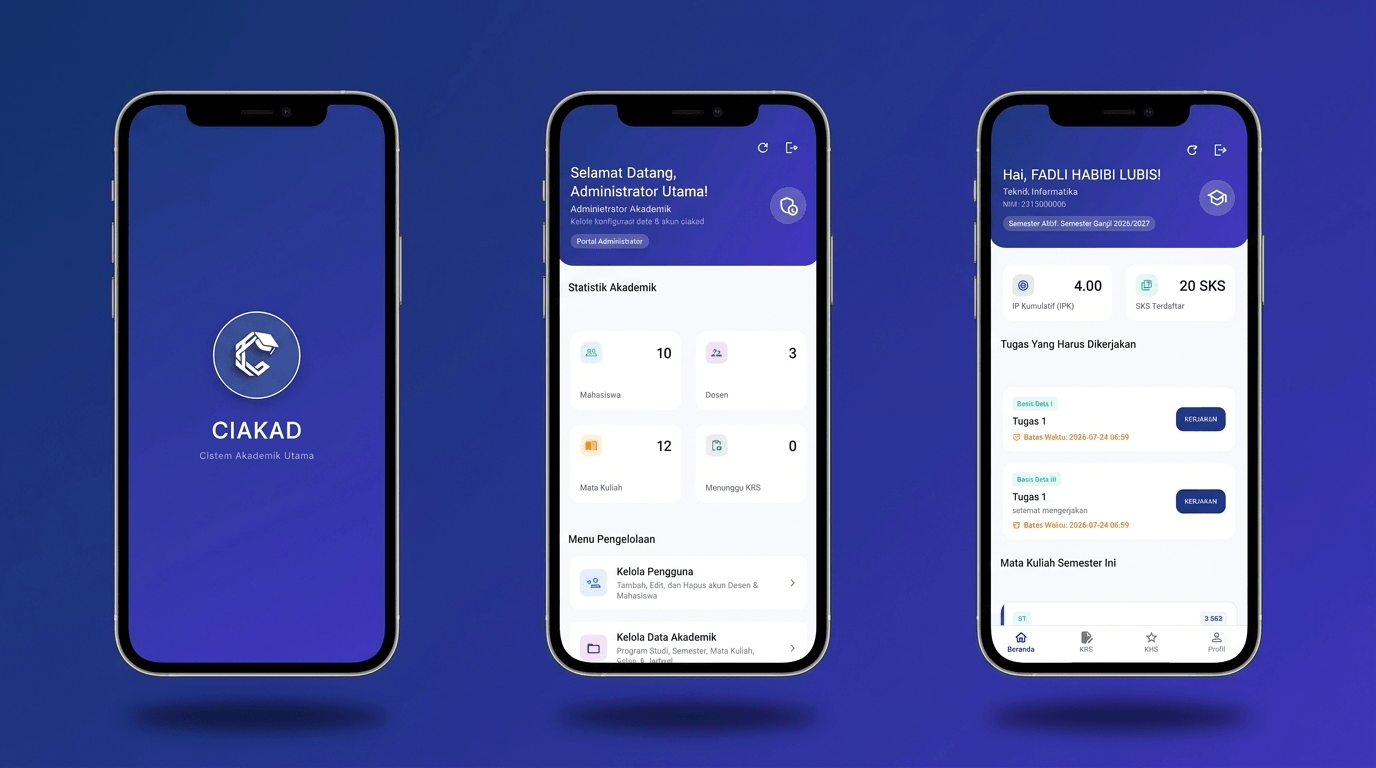
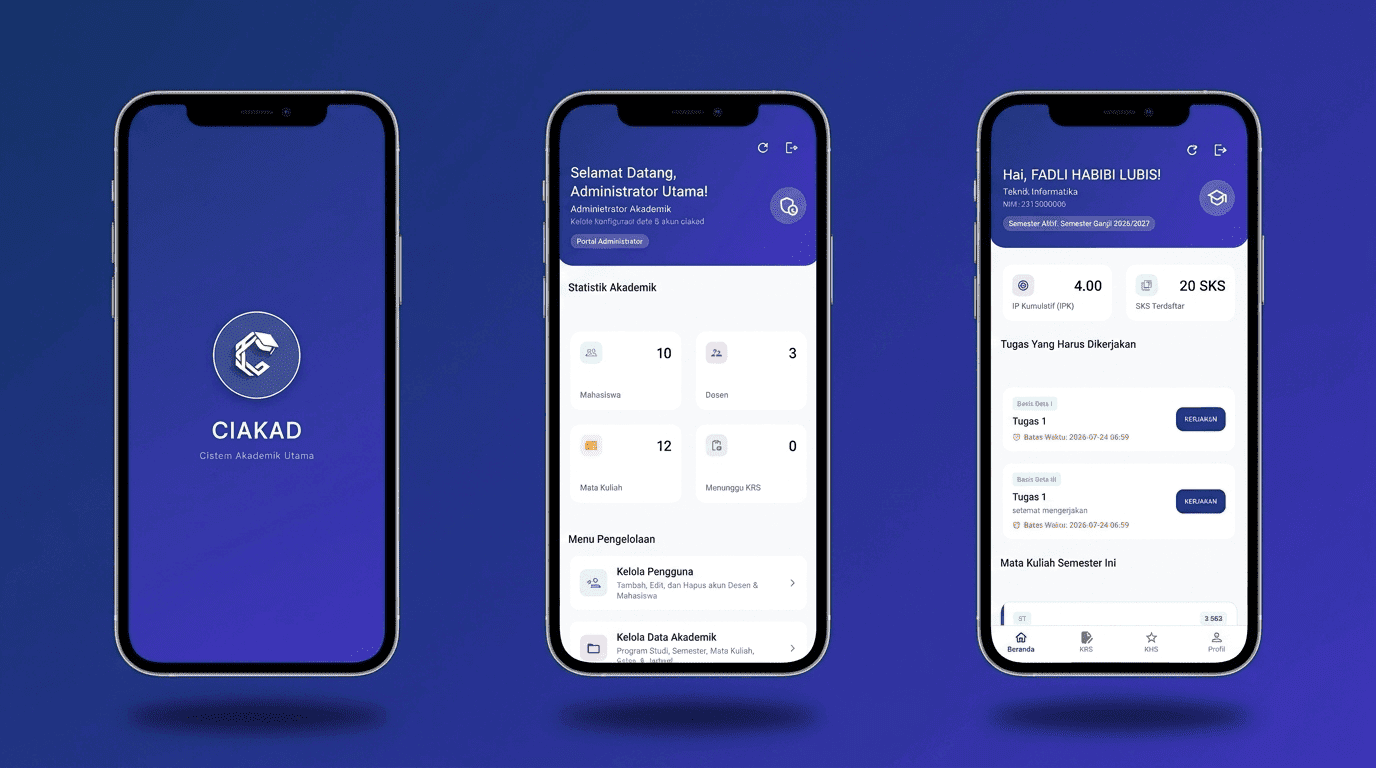
update

diff --git a/src/app/proyek/page.js b/src/app/proyek/page.js
@@ -68,7 +68,7 @@ export default function ProyekPage() {
             </p>
           </motion.div>
 
-          {/* Slideshow Main Outer Box */}
+          {/* Single Card Slider Main Outer Box */}
           <div
             className="relative w-full overflow-hidden rounded-3xl touch-pan-y select-none transition-all duration-300"
             style={{ border: "3px solid #0F1712", boxShadow: "10px 10px 0px #cbd5e1" }}
@@ -90,7 +90,6 @@ export default function ProyekPage() {
                   className={`flex-shrink-0 relative overflow-hidden bg-gradient-to-br ${proj.gradient}`}
                   style={{ width: `${100 / projects.length}%`, minHeight: "380px" }}
                 >
-
                   <div className="relative z-10 flex flex-col md:flex-row gap-6 md:gap-10 w-full h-full p-6 pb-16 sm:p-8 md:p-10 items-center">
                     
                     {/* Left info */}
@@ -108,9 +107,9 @@ export default function ProyekPage() {
                           {proj.description}
                         </p>
                         <div className="flex flex-wrap gap-1.5 pt-1">
-                          {proj.tags.map((t, i) => (
-                            <span key={i} className="px-3 py-1 rounded-full text-[10px] font-bold tracking-wide transition-transform hover:scale-105"
-                              style={{ background: "rgba(255,255,255,0.12)", border: "1px solid rgba(255,255,255,0.2)", color: "#fff", backdropFilter: "blur(4px)" }}>
+                          {proj.tags.map((t, idx) => (
+                            <span key={idx} className="px-3 py-1 rounded-full text-[10px] font-bold tracking-wide transition-transform hover:scale-105"
+                              style={{ background: "rgba(255,255,255,0.12)", border: "1px solid rgba(255,255,255,0.2)", color: "#fff" }}>
                               {t}
                             </span>
                           ))}
@@ -118,16 +117,16 @@ export default function ProyekPage() {
                       </div>
 
                       <div className="hidden md:flex flex-col gap-2.5 mt-auto pt-2">
-                        {proj.features.map((feat, i) => (
-                          <div key={i} className="flex items-center gap-2.5 px-3.5 py-2.5 rounded-xl transition-all duration-200 hover:bg-white/15"
-                            style={{ background: "rgba(255,255,255,0.08)", border: "1px solid rgba(255,255,255,0.12)", backdropFilter: "blur(6px)" }}>
+                        {proj.features.map((feat, idx) => (
+                          <div key={idx} className="flex items-center gap-2.5 px-3.5 py-2.5 rounded-xl transition-all duration-200 hover:bg-white/15"
+                            style={{ background: "rgba(255,255,255,0.08)", border: "1px solid rgba(255,255,255,0.12)" }}>
                             <span className="material-symbols-outlined text-white/90" style={{ fontSize: "16px" }}>{feat.icon}</span>
                             <span className="text-white/90 text-[11px] font-semibold" style={{ fontFamily: "var(--font-inter)" }}>{feat.label}</span>
                           </div>
                         ))}
                         <a href={proj.gitUrl} target="_blank" rel="noopener noreferrer"
                           className="inline-flex items-center gap-2 mt-1 px-4 py-2.5 rounded-xl text-xs font-bold text-white transition-all duration-200 hover:scale-[1.02] active:scale-95 shadow-md"
-                          style={{ background: "rgba(255,255,255,0.14)", border: "1px solid rgba(255,255,255,0.24)", backdropFilter: "blur(6px)" }}>
+                          style={{ background: "rgba(255,255,255,0.14)", border: "1px solid rgba(255,255,255,0.24)" }}>
                           <span className="material-symbols-outlined" style={{ fontSize: "15px" }}>code</span>
                           Lihat di GitHub
                         </a>
@@ -137,7 +136,7 @@ export default function ProyekPage() {
                     {/* Right mockup photo */}
                     <div className="flex-grow flex flex-col items-center justify-center md:w-[60%] w-full gap-3">
                       <div className="w-full max-w-2xl rounded-2xl overflow-hidden shadow-2xl transition-transform duration-500 hover:scale-[1.01]"
-                        style={{ background: "rgba(0,0,0,0.3)", border: "1px solid rgba(255,255,255,0.15)", backdropFilter: "blur(10px)" }}>
+                        style={{ background: "rgba(0,0,0,0.3)", border: "1px solid rgba(255,255,255,0.15)" }}>
                         
                         {/* Browser Header Bar */}
                         <div className="flex items-center gap-2 px-4 py-3"
@@ -164,10 +163,10 @@ export default function ProyekPage() {
                         </div>
                       </div>
 
-                      {/* Tombol Lihat di GitHub - Tampil khusus di bawah gambar untuk tampilan HP */}
+                      {/* Tombol Lihat di GitHub - Tampil khusus di bawah gambar untuk HP */}
                       <a href={proj.gitUrl} target="_blank" rel="noopener noreferrer"
                         className="md:hidden inline-flex items-center justify-center gap-2 w-full mt-1 px-4 py-2.5 rounded-xl text-xs font-bold text-white transition-all duration-200 active:scale-95 shadow-md relative z-20"
-                        style={{ background: "rgba(255,255,255,0.14)", border: "1px solid rgba(255,255,255,0.24)", backdropFilter: "blur(6px)" }}>
+                        style={{ background: "rgba(255,255,255,0.14)", border: "1px solid rgba(255,255,255,0.24)" }}>
                         <span className="material-symbols-outlined" style={{ fontSize: "15px" }}>code</span>
                         Lihat di GitHub
                       </a>
@@ -183,22 +182,8 @@ export default function ProyekPage() {
               type="button"
               onClick={handlePrevSlide}
               aria-label="Proyek sebelumnya"
-              className="hidden md:flex absolute left-3 sm:left-4 top-1/2 -translate-y-1/2 w-10 h-10 sm:w-11 sm:h-11 rounded-xl items-center justify-center z-30 transition-all duration-200 cursor-pointer"
+              className="hidden md:flex absolute left-3 sm:left-4 top-1/2 -translate-y-1/2 w-10 h-10 sm:w-11 sm:h-11 rounded-xl items-center justify-center z-30 transition-all duration-200 cursor-pointer hover:bg-teal-50 hover:text-teal-600 hover:border-teal-600 hover:shadow-[3px_3px_0px_#0D9488] hover:scale-105"
               style={{ background: "#fff", border: "2px solid #0F1712", color: "#0F1712", boxShadow: "3px 3px 0px #0F1712" }}
-              onMouseEnter={(e) => {
-                e.currentTarget.style.background = C.primaryBg;
-                e.currentTarget.style.color = C.primary;
-                e.currentTarget.style.borderColor = C.primary;
-                e.currentTarget.style.boxShadow = "3px 3px 0px " + C.primary;
-                e.currentTarget.style.transform = "translateY(-50%) scale(1.05)";
-              }}
-              onMouseLeave={(e) => {
-                e.currentTarget.style.background = "#fff";
-                e.currentTarget.style.color = "#0F1712";
-                e.currentTarget.style.borderColor = "#0F1712";
-                e.currentTarget.style.boxShadow = "3px 3px 0px #0F1712";
-                e.currentTarget.style.transform = "translateY(-50%) scale(1)";
-              }}
             >
               <span className="material-symbols-outlined font-black">chevron_left</span>
             </button>
@@ -207,27 +192,11 @@ export default function ProyekPage() {
               type="button"
               onClick={handleNextSlide}
               aria-label="Proyek selanjutnya"
-              className="hidden md:flex absolute right-3 sm:right-4 top-1/2 -translate-y-1/2 w-10 h-10 sm:w-11 sm:h-11 rounded-xl items-center justify-center z-30 transition-all duration-200 cursor-pointer"
+              className="hidden md:flex absolute right-3 sm:right-4 top-1/2 -translate-y-1/2 w-10 h-10 sm:w-11 sm:h-11 rounded-xl items-center justify-center z-30 transition-all duration-200 cursor-pointer hover:bg-teal-50 hover:text-teal-600 hover:border-teal-600 hover:shadow-[3px_3px_0px_#0D9488] hover:scale-105"
               style={{ background: "#fff", border: "2px solid #0F1712", color: "#0F1712", boxShadow: "3px 3px 0px #0F1712" }}
-              onMouseEnter={(e) => {
-                e.currentTarget.style.background = C.primaryBg;
-                e.currentTarget.style.color = C.primary;
-                e.currentTarget.style.borderColor = C.primary;
-                e.currentTarget.style.boxShadow = "3px 3px 0px " + C.primary;
-                e.currentTarget.style.transform = "translateY(-50%) scale(1.05)";
-              }}
-              onMouseLeave={(e) => {
-                e.currentTarget.style.background = "#fff";
-                e.currentTarget.style.color = "#0F1712";
-                e.currentTarget.style.borderColor = "#0F1712";
-                e.currentTarget.style.boxShadow = "3px 3px 0px #0F1712";
-                e.currentTarget.style.transform = "translateY(-50%) scale(1)";
-              }}
             >
               <span className="material-symbols-outlined font-black">chevron_right</span>
             </button>
-
-
 
             {/* Dots Indicator Container */}
             <div

diff --git a/src/app/kontak/page.js b/src/app/kontak/page.js
@@ -46,22 +46,12 @@ export default function KontakPage() {
               <a
                 id="card-email"
                 href="mailto:habibifadli682@gmail.com"
-                className="col-span-2 group relative p-5 sm:p-6 rounded-2xl border-2 transition-all duration-200 flex flex-col sm:flex-row items-center justify-between gap-4 overflow-hidden text-center sm:text-left"
+                className="col-span-2 group relative p-5 sm:p-6 rounded-2xl border-2 transition-all duration-200 flex flex-col sm:flex-row items-center justify-between gap-4 overflow-hidden text-center sm:text-left hover:-translate-y-1 hover:border-teal-600 hover:shadow-[5px_5px_0px_#0D9488]"
                 style={{
                   background: "#fff",
                   borderColor: "#e5e7eb",
                   boxShadow: "4px 4px 0px #e5e7eb",
                   textDecoration: "none",
-                }}
-                onMouseEnter={(e) => {
-                  e.currentTarget.style.borderColor = C.primary;
-                  e.currentTarget.style.boxShadow = `5px 5px 0px ${C.primary}`;
-                  e.currentTarget.style.transform = "translate(-2px, -2px)";
-                }}
-                onMouseLeave={(e) => {
-                  e.currentTarget.style.borderColor = "#e5e7eb";
-                  e.currentTarget.style.boxShadow = "4px 4px 0px #e5e7eb";
-                  e.currentTarget.style.transform = "none";
                 }}
               >
                 <div className="flex flex-col sm:flex-row items-center gap-3.5 sm:gap-4">
@@ -105,22 +95,12 @@ export default function KontakPage() {
                 href="https://www.instagram.com/fdlilbs.23?igsh=MWtyOGRnamo2czQ1OQ=="
                 target="_blank"
                 rel="noopener noreferrer"
-                className="col-span-1 group p-5 rounded-2xl border-2 transition-all duration-200 flex flex-col items-center justify-center text-center min-h-[140px]"
+                className="col-span-1 group p-5 rounded-2xl border-2 transition-all duration-200 flex flex-col items-center justify-center text-center min-h-[140px] hover:-translate-y-1 hover:border-[#E1306C] hover:shadow-[5px_5px_0px_#E1306C]"
                 style={{
                   background: "#fff",
                   borderColor: "#e5e7eb",
                   boxShadow: "4px 4px 0px #e5e7eb",
                   textDecoration: "none",
-                }}
-                onMouseEnter={(e) => {
-                  e.currentTarget.style.borderColor = "#E1306C";
-                  e.currentTarget.style.boxShadow = "5px 5px 0px #E1306C";
-                  e.currentTarget.style.transform = "translate(-2px, -2px)";
-                }}
-                onMouseLeave={(e) => {
-                  e.currentTarget.style.borderColor = "#e5e7eb";
-                  e.currentTarget.style.boxShadow = "4px 4px 0px #e5e7eb";
-                  e.currentTarget.style.transform = "none";
                 }}
               >
                 <div className="w-11 h-11 rounded-xl flex items-center justify-center border-2 mb-3"
@@ -143,22 +123,12 @@ export default function KontakPage() {
                 href="https://github.com/FdliHabibiLubis"
                 target="_blank"
                 rel="noopener noreferrer"
-                className="col-span-1 group p-5 rounded-2xl border-2 transition-all duration-200 flex flex-col items-center justify-center text-center min-h-[140px]"
+                className="col-span-1 group p-5 rounded-2xl border-2 transition-all duration-200 flex flex-col items-center justify-center text-center min-h-[140px] hover:-translate-y-1 hover:border-teal-400 hover:shadow-[5px_5px_0px_#0D9488]"
                 style={{
                   background: "#0F172A",
                   borderColor: "#1E293B",
                   boxShadow: "4px 4px 0px #e5e7eb",
                   textDecoration: "none",
-                }}
-                onMouseEnter={(e) => {
-                  e.currentTarget.style.borderColor = C.primary;
-                  e.currentTarget.style.boxShadow = `5px 5px 0px ${C.primary}`;
-                  e.currentTarget.style.transform = "translate(-2px, -2px)";
-                }}
-                onMouseLeave={(e) => {
-                  e.currentTarget.style.borderColor = "#1E293B";
-                  e.currentTarget.style.boxShadow = "4px 4px 0px #e5e7eb";
-                  e.currentTarget.style.transform = "none";
                 }}
               >
                 <div className="w-11 h-11 rounded-xl flex items-center justify-center border-2 mb-3"

diff --git a/src/app/layout.js b/src/app/layout.js
@@ -26,6 +26,9 @@ export const metadata = {
   title: "Fadli — Frontend Developer",
   description:
     "Mahasiswa Rekayasa Perangkat Lunak yang berfokus pada pengembangan frontend web yang cepat, responsif, aksesibel, dan dirancang dengan presisi.",
+  icons: {
+    icon: "/icon.svg",
+  },
 };
 
 export const viewport = {
